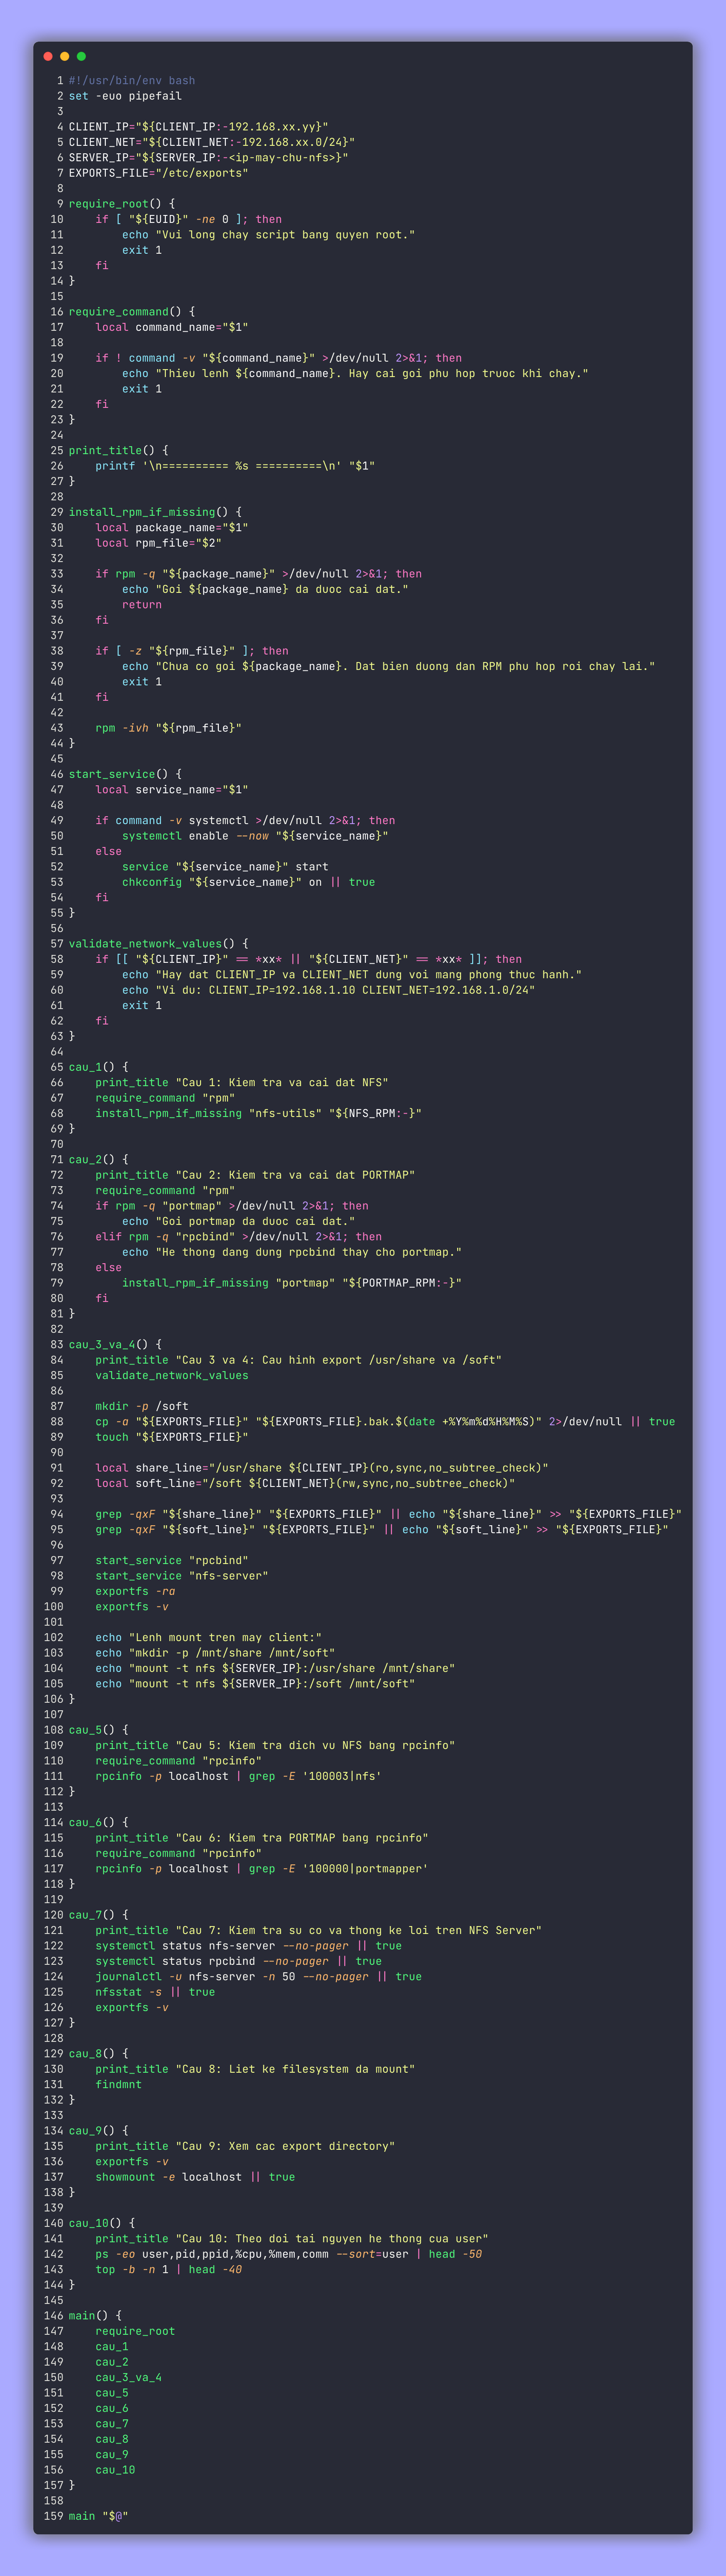
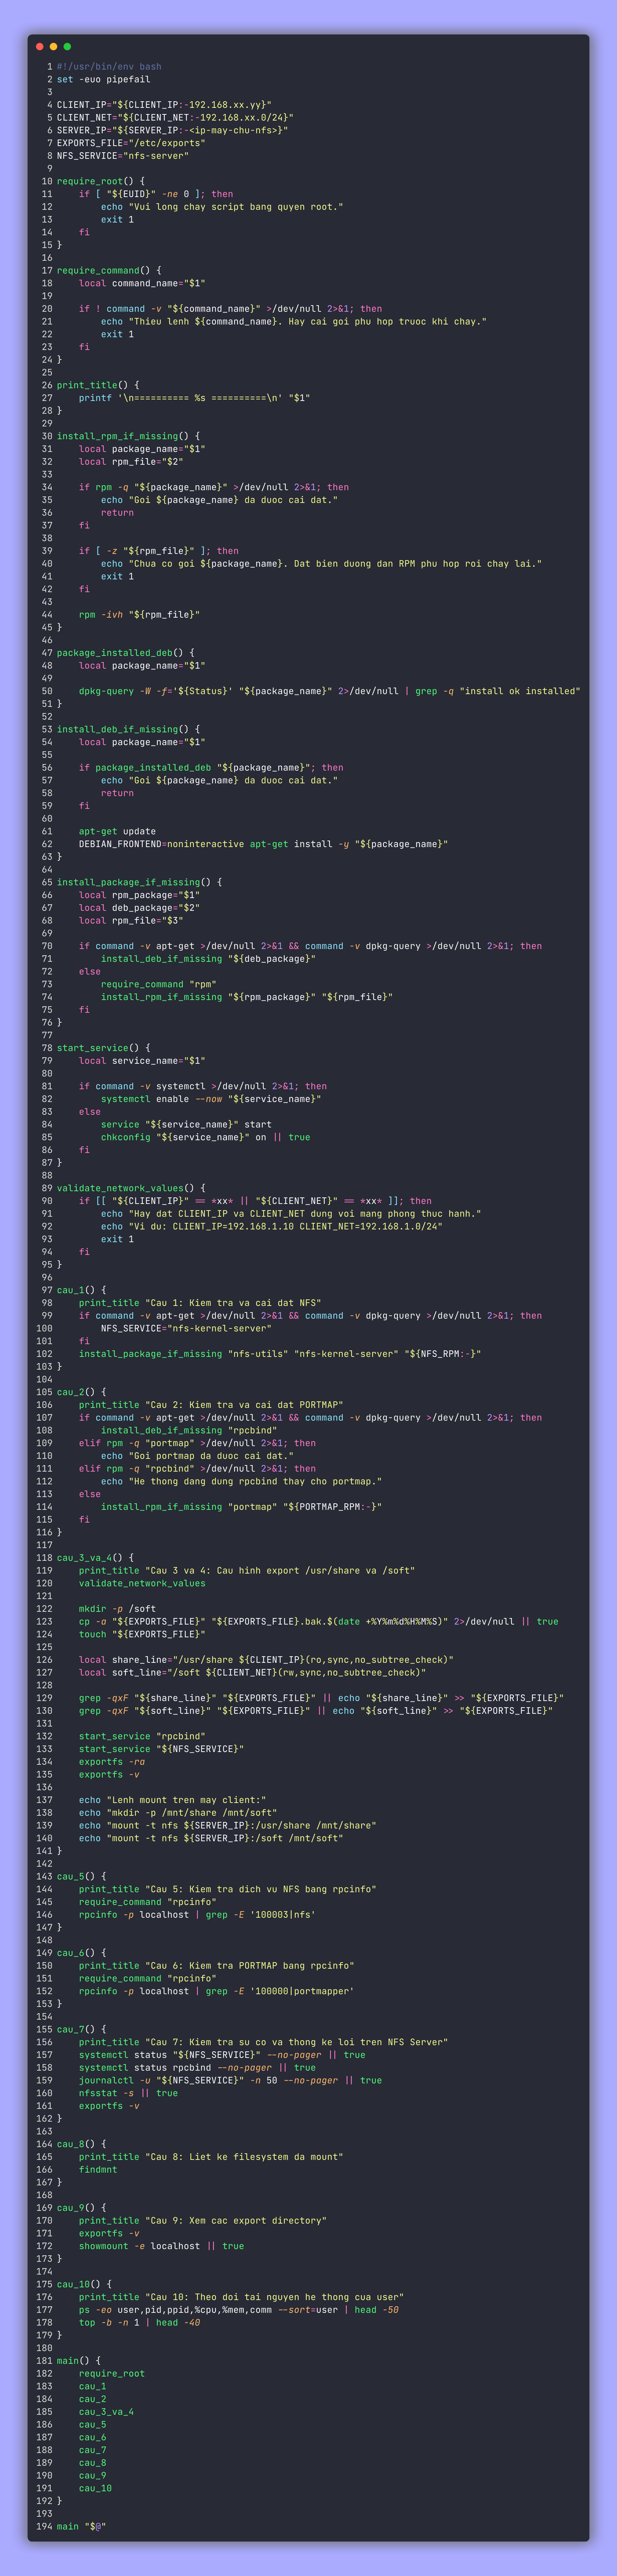
Support Debian NFS packages

diff --git a/README.md b/README.md
@@ -66,6 +66,8 @@ Nếu máy chưa có gói cài đặt, truyền đường dẫn tệp RPM:
 sudo NFS_RPM=/duong/dan/nfs-utils.rpm PORTMAP_RPM=/duong/dan/portmap.rpm CLIENT_IP=192.168.1.10 CLIENT_NET=192.168.1.0/24 SERVER_IP=192.168.1.1 bash scripts/de_tuan.sh
 ```
 
+Trên Ubuntu hoặc Debian, script tự kiểm tra và cài các gói tương ứng là `nfs-kernel-server` và `rpcbind`.
+
 ## Kiểm thử
 
 ```bash